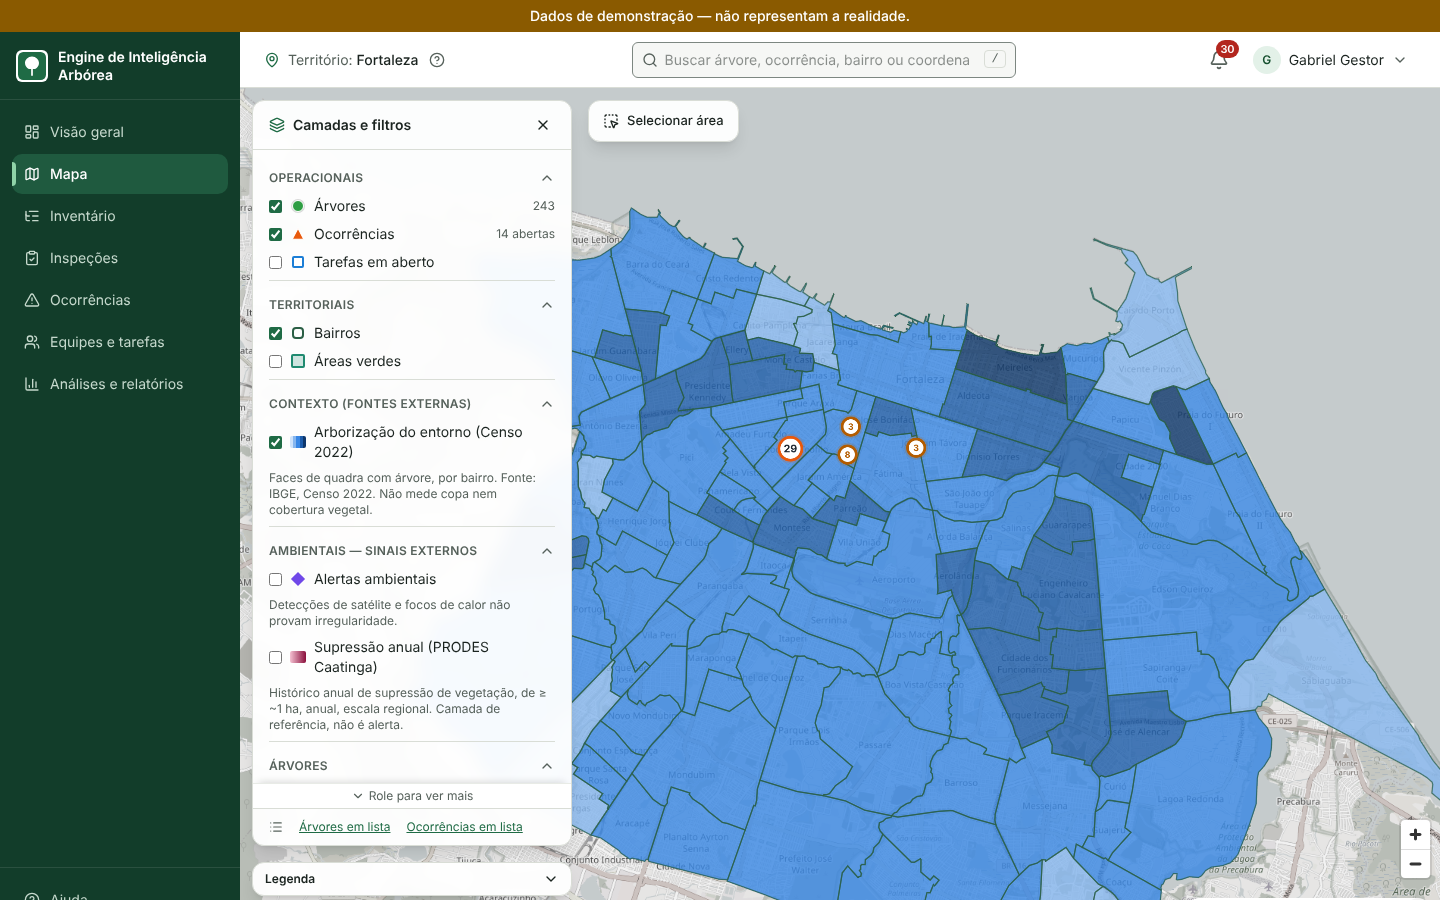
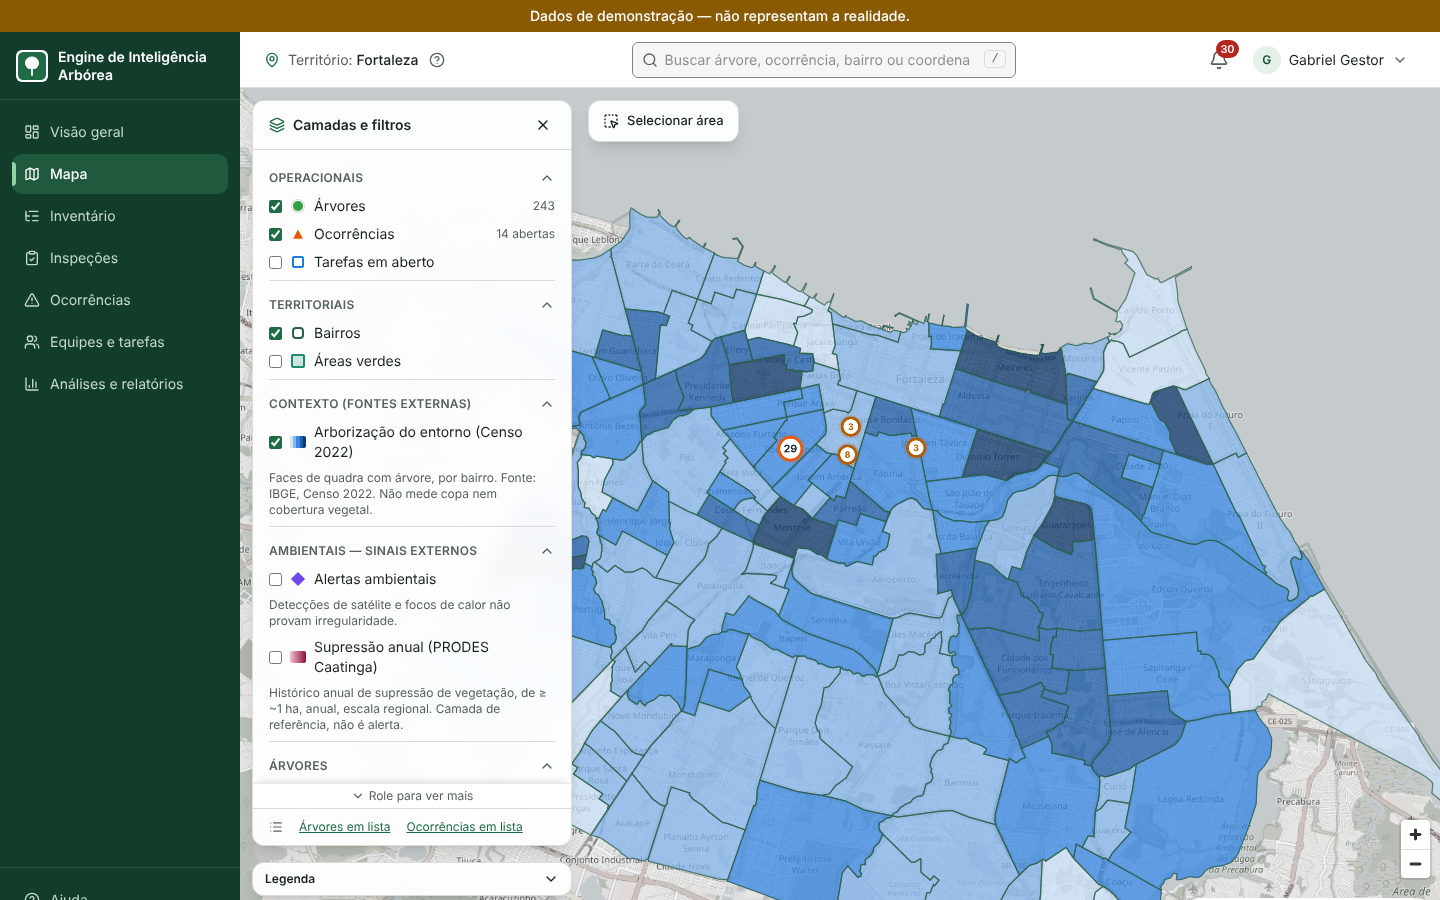
Censo no mapa: quebras 40/50/60/70 pela distribuição real e preenchimento mais leve (M-33) (#76)
Com os 121 bairros oficiais, 81 caíam na mesma classe de 20/40/60/80.
Quebras fixas, agora perto dos quintis reais (42,6/47,6/53,6/60,9%).
Opacidade 0,75: a menor que passa no validador de contraste (0,65 e 0,7
reprovaram classes vizinhas).

Claude-Session: https://claude.ai/code/session_019QZw3AejLVwVpmC8aN5VGL

Changed region(s): [[0.375, 0.2178, 0.8125, 1.0], [0.7188, 0.28, 1.0, 0.8711]]

diff --git a/apps/web/src/mapa/coropletica.ts b/apps/web/src/mapa/coropletica.ts
@@ -6,11 +6,12 @@
  * não cobertura de copa nem condição das árvores: por isso a cor é um único matiz
  * (azul), que não compete com o verde e o laranja da condição aparente das árvores.
  *
- * Quebras fixas, em pontos percentuais (limite inferior inclusivo): 20, 40, 60 e 80.
+ * Quebras fixas, em pontos percentuais (limite inferior inclusivo): 40, 50, 60 e 70.
  * São fixas de propósito: o mesmo valor tem sempre a mesma cor, em qualquer escopo,
  * bairro filtrado ou data de importação, e dois mapas podem ser comparados. Quantis
- * mudariam de cor a cada importação. Em Fortaleza, os 121 bairros do Censo 2022 se
- * espalham por todas as cinco classes.
+ * mudariam de cor a cada importação. Os valores foram escolhidos pela distribuição
+ * real de Fortaleza no Censo 2022 (121 bairros, de 27,9% a 91,2%; quintis 42,6, 47,6,
+ * 53,6 e 60,9%): com 20/40/60/80, 81 bairros caíam na mesma classe.
  *
  * Paleta: rampa sequencial de um só matiz (passos 100, 250, 400, 550 e 700 da rampa azul
  * do guia de visualização de dados), do claro ao escuro. Contraste contra o mapa base e
@@ -18,20 +19,20 @@
  */
 import type { ExpressionSpecification } from "maplibre-gl";
 
-export const QUEBRAS_ARBORIZACAO = [20, 40, 60, 80] as const;
+export const QUEBRAS_ARBORIZACAO = [40, 50, 60, 70] as const;
 
 export const CORES_ARBORIZACAO = ["#cde2fb", "#86b6ef", "#3987e5", "#1c5cab", "#0d366b"] as const;
-export const OPACIDADE_ARBORIZACAO = 0.8;
+export const OPACIDADE_ARBORIZACAO = 0.75;
 
 /** Bairro sem dado do Censo: cinza neutro com hachura (ver `registrarHachuraSemDado`). */
 export const COR_SEM_DADO = "#a3ada7";
 
 export const ROTULOS_CLASSES_ARBORIZACAO = [
-  "Menos de 20%",
-  "20% a menos de 40%",
-  "40% a menos de 60%",
-  "60% a menos de 80%",
-  "80% ou mais",
+  "Menos de 40%",
+  "40% a menos de 50%",
+  "50% a menos de 60%",
+  "60% a menos de 70%",
+  "70% ou mais",
 ] as const;
 
 export const FONTE_ARBORIZACAO = "arborizacao-entorno";

diff --git a/apps/web/src/mapa/coropletica.test.ts b/apps/web/src/mapa/coropletica.test.ts
@@ -10,8 +10,8 @@ import {
 
 describe("classes da arborização do entorno", () => {
   it("usa quebras fixas, com o limite inferior em cada classe", () => {
-    expect(QUEBRAS_ARBORIZACAO).toEqual([20, 40, 60, 80]);
-    const classes = [0, 19.99, 20, 39.99, 40, 59.99, 60, 79.99, 80, 100].map(classeArborizacao);
+    expect(QUEBRAS_ARBORIZACAO).toEqual([40, 50, 60, 70]);
+    const classes = [0, 39.99, 40, 49.99, 50, 59.99, 60, 69.99, 70, 100].map(classeArborizacao);
     expect(classes).toEqual([0, 0, 1, 1, 2, 2, 3, 3, 4, 4]);
   });
 
@@ -29,13 +29,13 @@ describe("classes da arborização do entorno", () => {
       "step",
       ["get", "valor"],
       CORES_ARBORIZACAO[0],
-      20,
-      CORES_ARBORIZACAO[1],
       40,
+      CORES_ARBORIZACAO[1],
+      50,
       CORES_ARBORIZACAO[2],
       60,
       CORES_ARBORIZACAO[3],
-      80,
+      70,
       CORES_ARBORIZACAO[4],
     ]);
   });

diff --git a/docs/melhoria/backlog.md b/docs/melhoria/backlog.md
@@ -18,7 +18,6 @@ quando houver espaço ou decisão.
 | M-25 | P3 | Resumo de notificações por e-mail e SMTP de produção | Hoje sai um e-mail por evento; o SMTP real depende da hospedagem (DP-21). | Resumo diário opcional, verificação do e-mail e SMTP configurado no ambiente. |
 | M-30 | P3 | Resultado e foto quando a tarefa fecha pela ocorrência ou pela inspeção | Esses caminhos não passam pela regra de resultado e foto. Os tipos poda, remoção e plantio dependem da DP-17. | Regra decidida e aplicada nos três caminhos. |
 | M-32 | P3 | Grupos de bairro: nome no mapa e clique que enquadra o bairro | O grupo mostra contagem e anel, mas o nome só aparece na dica; o clique aproxima sem enquadrar o bairro. | Rótulo do bairro no grupo e clique que ajusta o mapa ao polígono. |
-| M-33 | P2 | Censo no mapa: classes que diferenciem os bairros e preenchimento mais leve | Com os 121 bairros reais, a maioria fica entre 40% e 60% e cai na mesma classe das quebras fixas (20/40/60/80); o azul opaco cobre o mapa base. | Quebras por quantis ou naturais documentadas na legenda, opacidade menor, validação de contraste e captura conferida. |
 | M-31 | P1 | Bairros reais na demonstração e nas capturas | Pedido da pessoa usuária: a demonstração mostrava três quadrados sintéticos como bairros. A fonte oficial (Fortaleza em Mapas, Ipplan) já é importada por `importar_limites_fortaleza`. | Demonstração e capturas com os 121 bairros e 12 regionais oficiais e o Censo por bairro; quadrados só como recurso sem rede. Em produção, a confirmação da fonte oficial e do responsável segue na DP-10. |
 
 ## Áreas verdes

diff --git a/docs/melhoria/direcao-visual.md b/docs/melhoria/direcao-visual.md
@@ -45,8 +45,9 @@ base e as duas pontas a ≥ 1,4:1 entre si, em cada fundo do OSM.
 
 A rampa da arborização do entorno é azul de propósito: o verde e o laranja são da
 condição das árvores, e o dado do Censo é percepção do recenseador sobre a face
-de quadra, não saúde nem cobertura de copa. As quebras são fixas (20, 40, 60 e
-80%) para o mesmo valor ter sempre a mesma cor. O contraste é conferido por
+de quadra, não saúde nem cobertura de copa. As quebras são fixas (40, 50, 60 e
+70%) para o mesmo valor ter sempre a mesma cor; os valores seguem a distribuição
+real de Fortaleza no Censo 2022 (quintis perto de 43, 48, 54 e 61%). O contraste é conferido por
 `packages/ui-tokens/scripts/contraste.mjs`: classes vizinhas a ≥ 1,4:1 e a mais
 escura a ≥ 3:1 sobre o mapa base, em cada fundo do OSM. A mais clara (perto de
 zero) se aproxima do fundo, como em toda rampa sequencial; o contorno do bairro e

diff --git a/docs/specs/web/02-mapa.md b/docs/specs/web/02-mapa.md
@@ -36,7 +36,7 @@ Fortaleza, com indicação explícita de origem e precisão de cada geometria.
   ("Contexto (fontes externas)"), desligadas por padrão, com fonte, data e
   definição na legenda. A primeira é "Arborização do entorno (Censo 2022)":
   bairros pintados pelo percentual de faces de quadra com árvore, em cinco
-  classes de um só matiz com quebras fixas (20, 40, 60 e 80%); bairro sem dado
+  classes de um só matiz com quebras fixas (40, 50, 60 e 70%, escolhidas pela distribuição real de Fortaleza); bairro sem dado
   fica hachurado e aparece como "Sem dado" na legenda, nunca como zero.
 
 ### Navegação e busca
